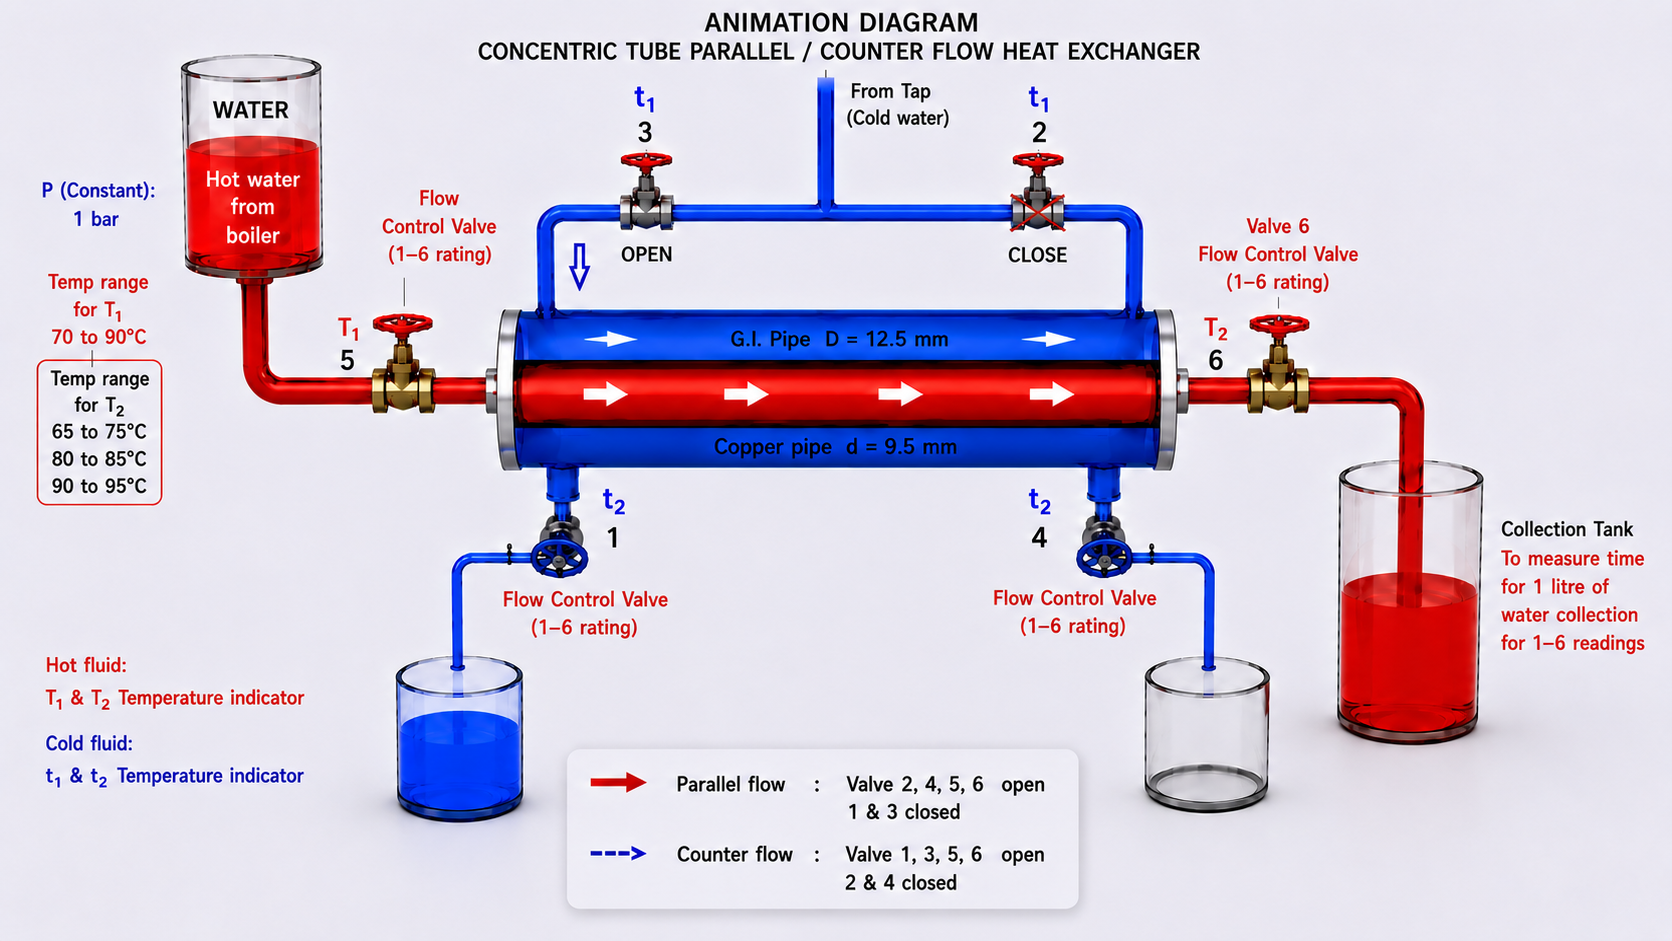
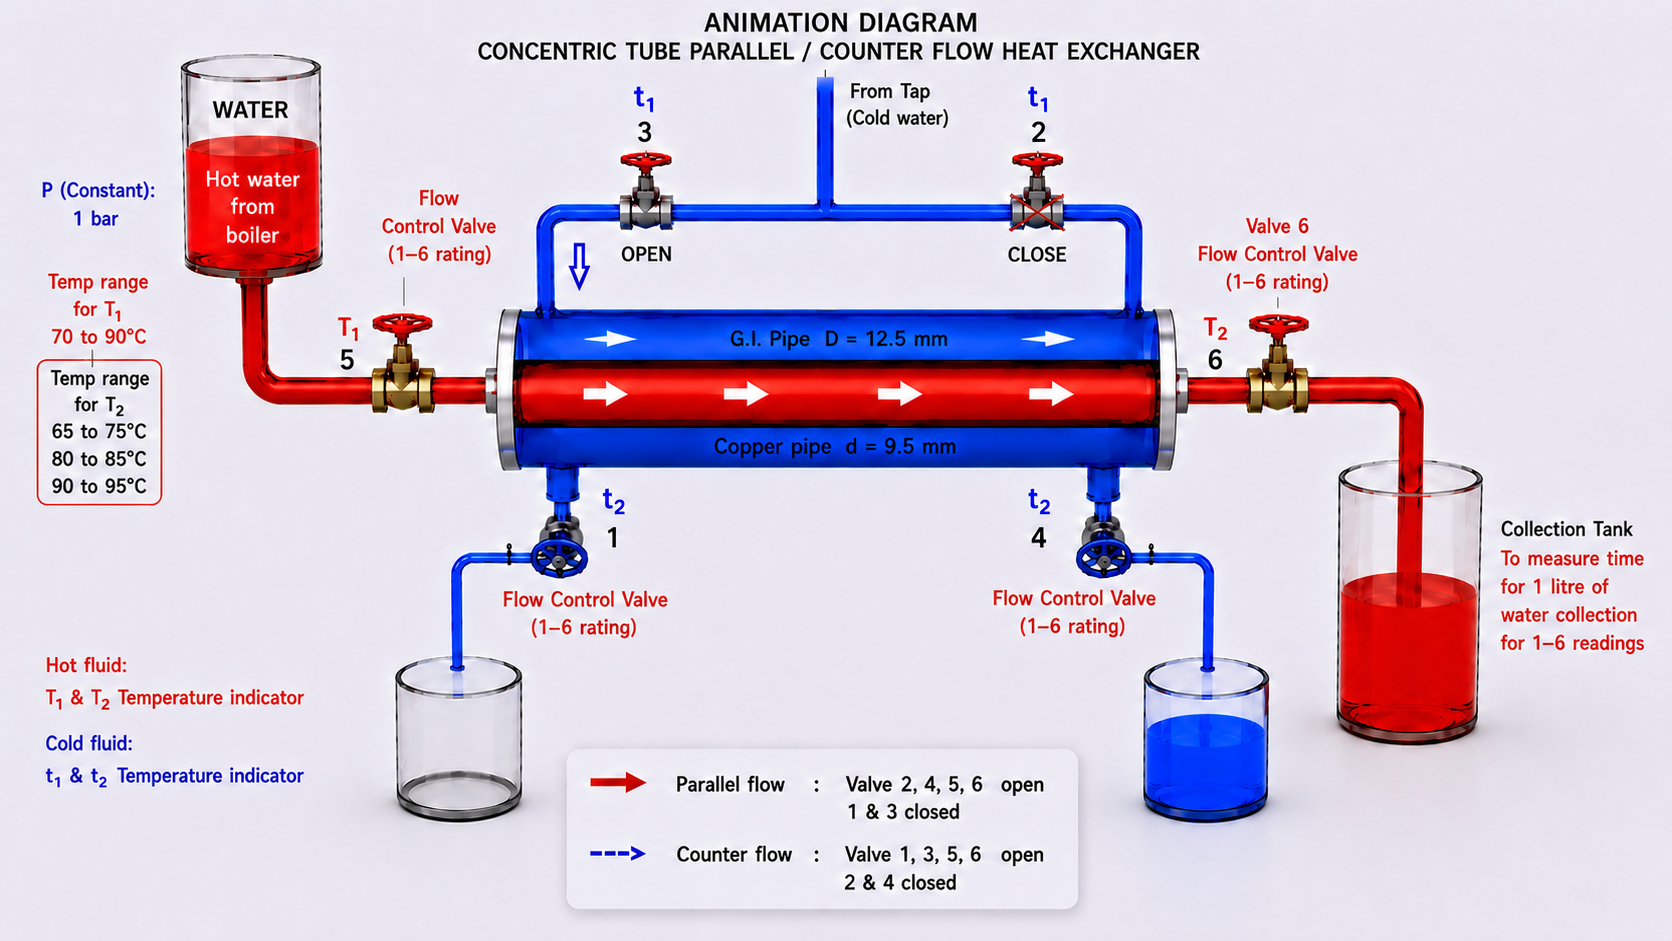
first commit

diff --git a/src/App.js b/src/App.js
@@ -172,7 +172,7 @@ const App = () => {
     }
   };
 
-  return (
+  return ( 
     <div className="app">
       {/* Header */}
       <header className="header">